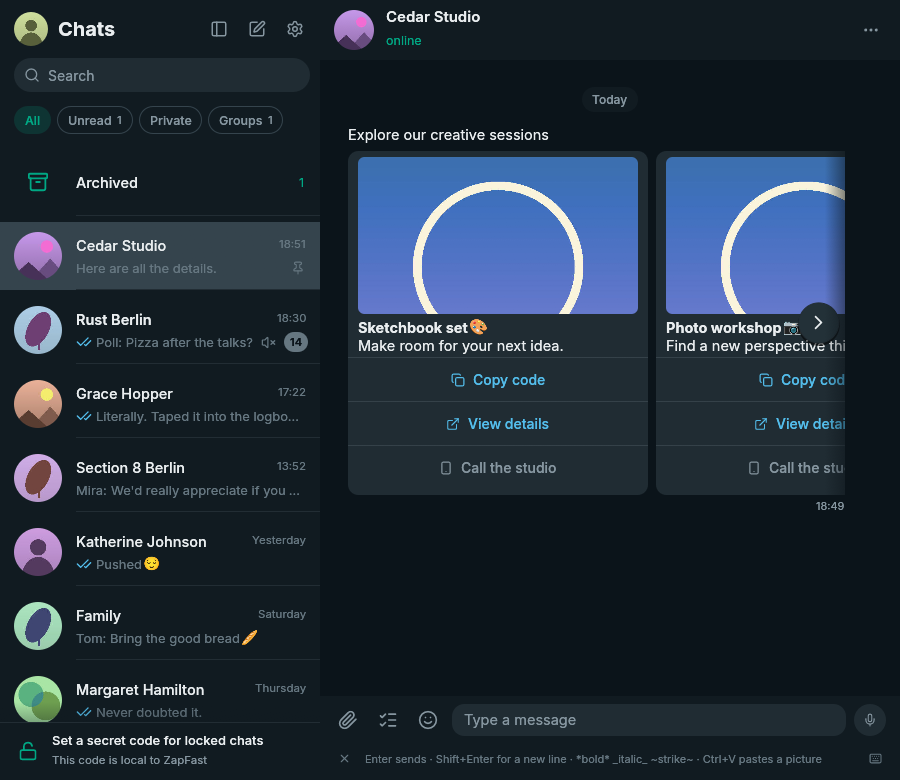
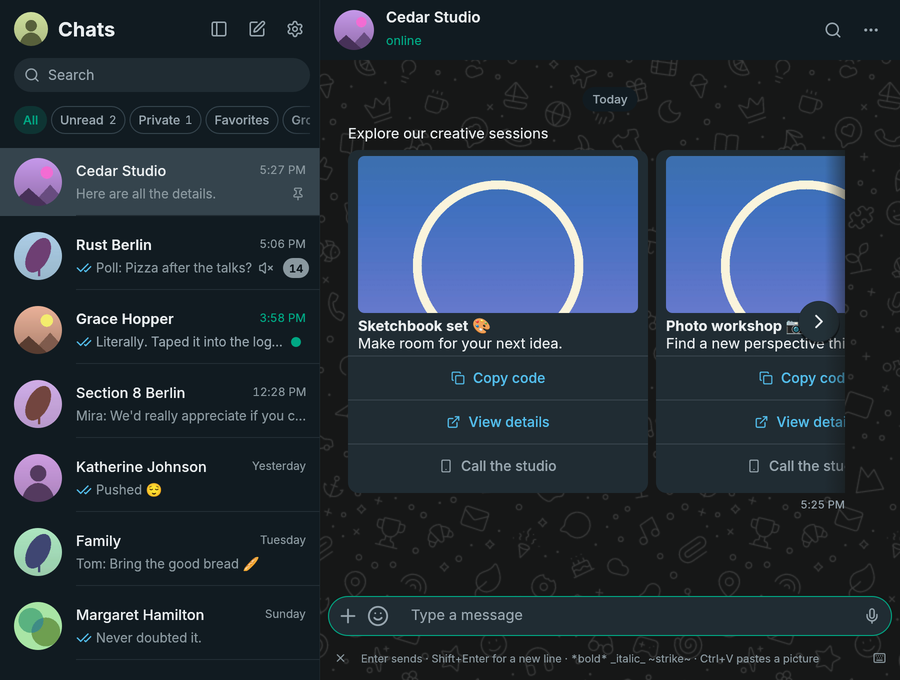
Show the current interface in the README and on the website
Every screenshot is retaken from the synthetic demo with the rounded
composer, chips and doodle wallpaper, in the default themes rather than
an Omarchy palette, and in a more compact 900 by 680 window. The main
screenshots come in dark and light, and the README and website show the
one matching the reader's theme. The Arch instructions use yay.

diff --git a/README.md b/README.md
@@ -11,13 +11,22 @@ WhatsApp Web and its Chromium processes. [See the measurements](https://zapfast.
 ZapFast is a sibling of [Spotifast](https://spotifast.rocks),
 with the same native UI for a different service.
 
-![ZapFast showing a conversation with an attachment, voice messages, reactions, a quoted reply, and a link preview](docs/screenshot.png)
+<picture>
+  <source media="(prefers-color-scheme: light)" srcset="docs/screenshot-light.png">
+  <img src="docs/screenshot.png" alt="ZapFast showing a conversation with an attachment, voice messages, reactions, a quoted reply, and a link preview">
+</picture>
 
 See **[zapfast.rocks](https://zapfast.rocks)** for downloads and guides.
 
-![A titled group chat with participant names, reactions, a quoted mention, and a poll](docs/screenshot-group.png)
+<picture>
+  <source media="(prefers-color-scheme: light)" srcset="docs/screenshot-group-light.png">
+  <img src="docs/screenshot-group.png" alt="A titled group chat with participant names, reactions, a quoted mention, and a poll">
+</picture>
 
-![The linking screen with the QR code](docs/screenshot-link.png)
+<picture>
+  <source media="(prefers-color-scheme: light)" srcset="docs/screenshot-link-light.png">
+  <img src="docs/screenshot-link.png" alt="The linking screen with the QR code">
+</picture>
 
 ## What it does
 

diff --git a/docs/_guide/what-is-zapfast.md b/docs/_guide/what-is-zapfast.md
@@ -16,7 +16,8 @@ In our Linux test, it opened in under a second and used about 150 MB of idle
 RAM, compared with 1.13 GB for WhatsApp Web and its Chromium processes.
 [See the measurements](/benchmarks/).
 
-![ZapFast showing a conversation with an attachment, voice messages, reactions, a quoted reply, and a link preview](/screenshot.png)
+<img class="VPImage dark" src="{{ '/screenshot.png' | relative_url }}" alt="ZapFast showing a conversation with an attachment, voice messages, reactions, a quoted reply, and a link preview" width="1800" height="1360">
+<img class="VPImage light" src="{{ '/screenshot-light.png' | relative_url }}" alt="ZapFast showing a conversation with an attachment, voice messages, reactions, a quoted reply, and a link preview" width="1800" height="1360">
 
 ## What it does
 

diff --git a/docs/_guide/download.md b/docs/_guide/download.md
@@ -23,9 +23,9 @@ On Arch Linux and derivatives, install from the
 [AUR](https://aur.archlinux.org/packages/{{ name }}-bin):
 
 ```sh
-paru -S {{ name }}-bin   # prebuilt
-paru -S {{ name }}       # builds from the release source
-paru -S {{ name }}-git   # builds from the latest commit
+yay -S {{ name }}-bin    # prebuilt
+yay -S {{ name }}        # builds from the release source
+yay -S {{ name }}-git    # builds from the latest commit
 ```
 
 For other distributions, download a tarball with the binary, desktop file,

diff --git a/docs/index.md b/docs/index.md
@@ -18,10 +18,11 @@ hero:
       text: GitHub
       link: https://github.com/crmne/zapfast
   image:
-    src: /screenshot.png
+    dark: /screenshot.png
+    light: /screenshot-light.png
     alt: "ZapFast showing a conversation with an attachment, voice messages, reactions, a quoted reply, and a link preview"
-    width: 1387
-    height: 1040
+    width: 1800
+    height: 1360
 
 features:
   - icon: ⚡
